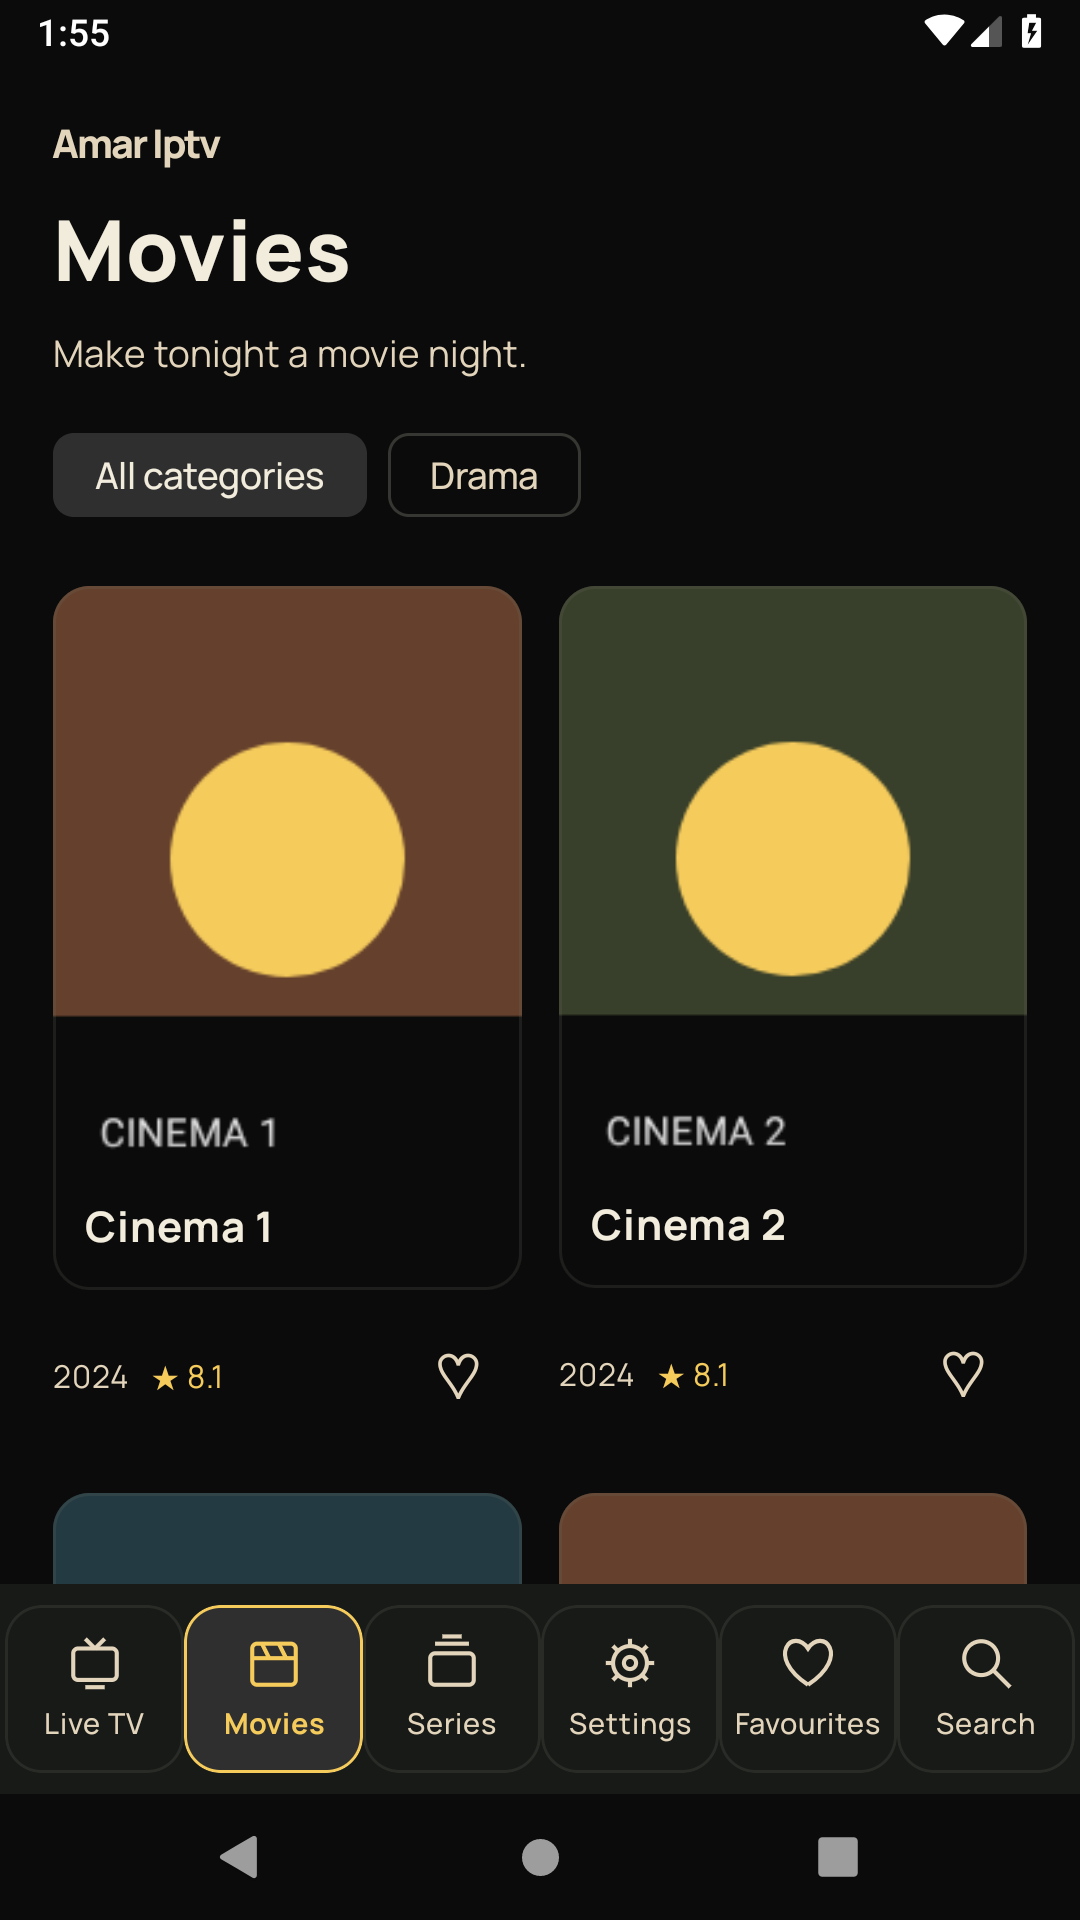
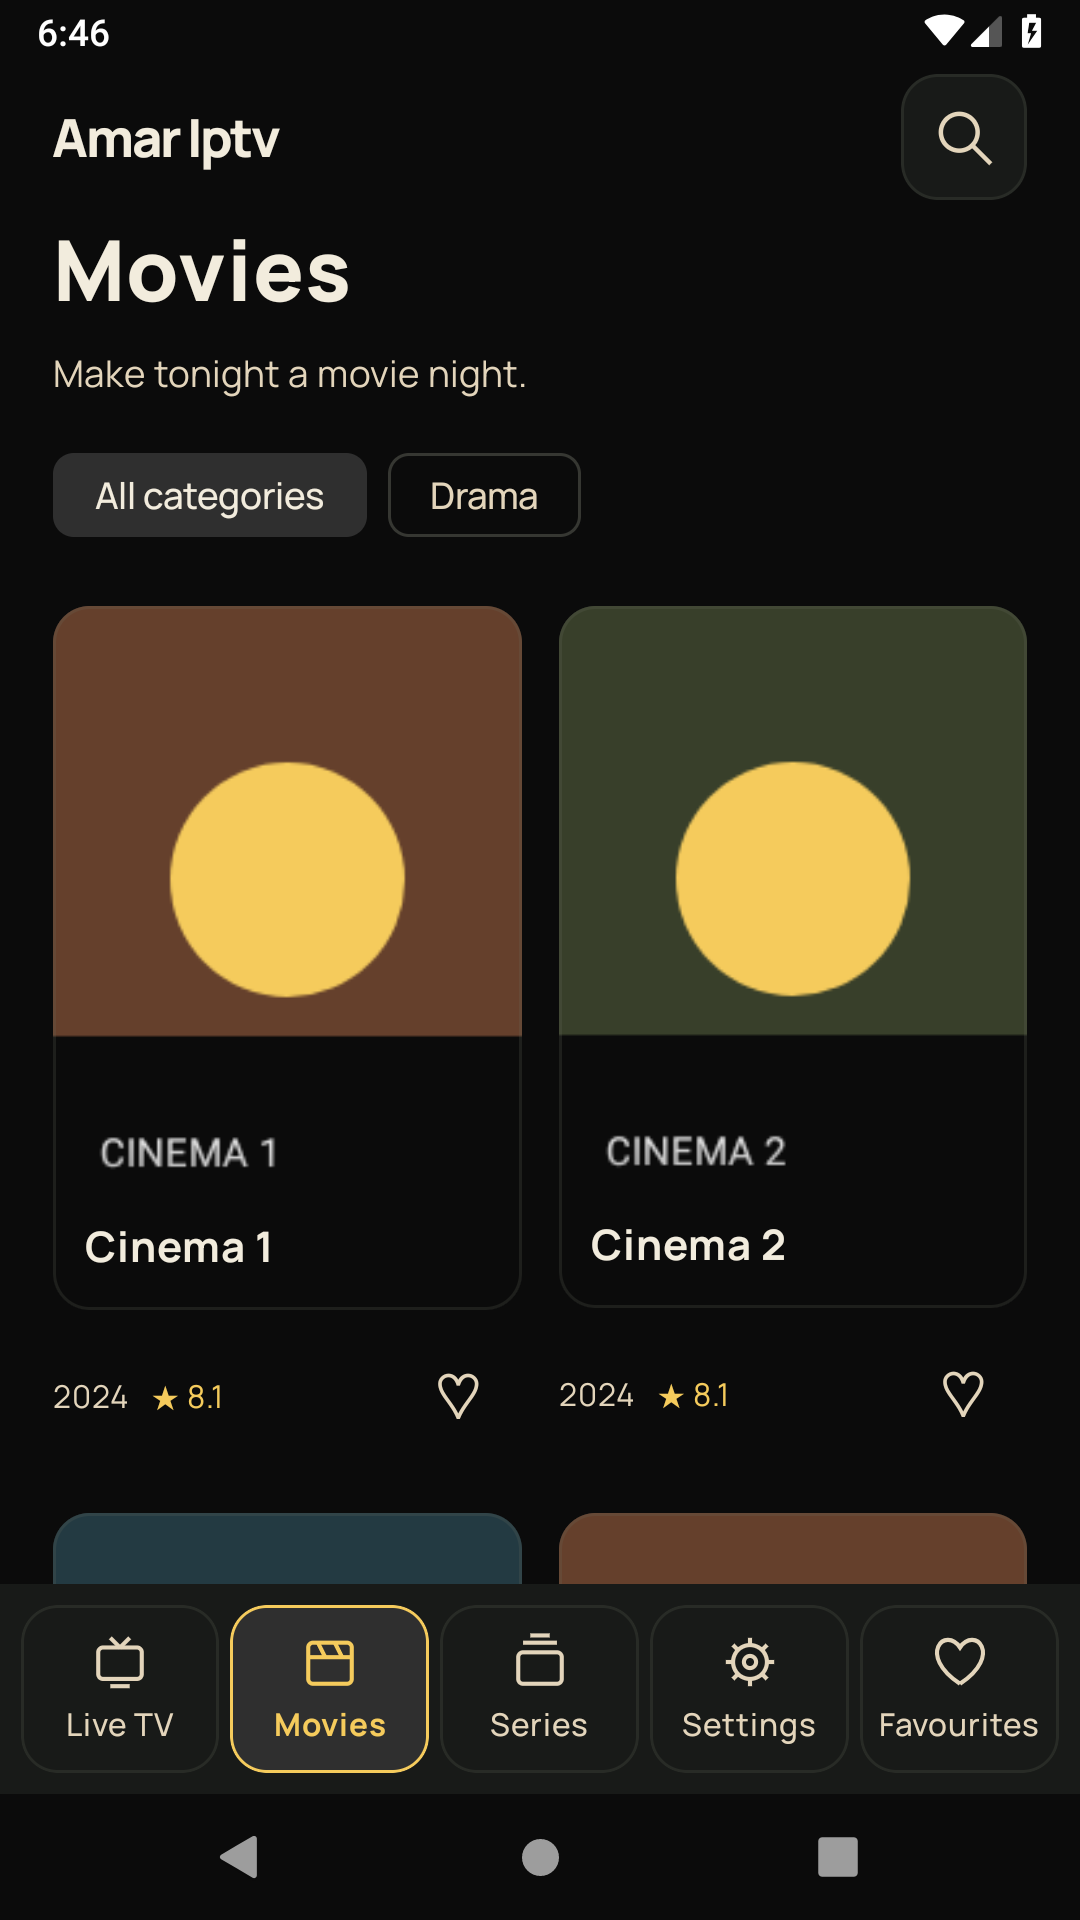
fix: fit empty settings in compact windows

diff --git a/ui/mobile/src/main/kotlin/com/fireamun/iptv/ui/mobile/MobileLibrary.kt b/ui/mobile/src/main/kotlin/com/fireamun/iptv/ui/mobile/MobileLibrary.kt
@@ -46,9 +46,9 @@ fun MobileWelcome(state: LibraryState, onChangeLanguage: () -> Unit, onImportFil
     CinemaTheme {
         val p = cinemaPalette()
         Surface(Modifier.fillMaxSize()) {
-            LazyColumn(modifier = Modifier.imePadding().widthIn(max = 800.dp).testTag("library_list"), state = list, contentPadding = PaddingValues(24.dp), verticalArrangement = Arrangement.spacedBy(12.dp)) {
+            LazyColumn(modifier = Modifier.imePadding().widthIn(max = 800.dp).testTag("library_list"), state = list, contentPadding = PaddingValues(20.dp), verticalArrangement = Arrangement.spacedBy(12.dp)) {
                 item(key = "header") {
-                    Column(verticalArrangement = Arrangement.spacedBy(20.dp)) {
+                    Column(verticalArrangement = Arrangement.spacedBy(16.dp)) {
                         Row(Modifier.fillMaxWidth(), verticalAlignment = Alignment.CenterVertically) {
                             Box(Modifier.weight(1f), contentAlignment = Alignment.CenterStart) { Text(stringResource(R.string.mobile_settings_title), fontWeight = FontWeight.Bold, fontSize = 22.sp) }
                             TextButton(onClick = onChangeAppearance, modifier = Modifier.testTag("appearance_switch")) { Text(stringResource(if (isSystemInDarkTheme()) R.string.mobile_light else R.string.mobile_dark), color = p.text, fontSize = 12.sp) }
@@ -75,8 +75,7 @@ fun MobileWelcome(state: LibraryState, onChangeLanguage: () -> Unit, onImportFil
                             }
                         }
                         if (state.entryCount == 0) {
-                            CinemaIllustration(Modifier.fillMaxWidth().height(160.dp))
-                            Text(stringResource(R.string.mobile_title), fontWeight = FontWeight.ExtraBold, fontSize = 38.sp, lineHeight = 44.sp, letterSpacing = (-1).sp)
+                            Text(stringResource(R.string.mobile_title), fontWeight = FontWeight.ExtraBold, fontSize = 24.sp, lineHeight = 32.sp)
                             Text(stringResource(R.string.mobile_description), style = MaterialTheme.typography.bodyMedium, color = p.muted)
                         } else {
                             if (state.canGoBack) TextButton(onClick = onLibraryBack, modifier = Modifier.testTag("library_back")) { Text(stringResource(R.string.mobile_back), color = p.text) }

diff --git a/app/src/androidTest/kotlin/com/fireamun/iptv/prototype/AppearanceTest.kt b/app/src/androidTest/kotlin/com/fireamun/iptv/prototype/AppearanceTest.kt
@@ -95,6 +95,7 @@ class AppearanceTest {
             current == expected
         }
         compose.waitForIdle()
+        compose.waitUntil(10_000) { compose.onAllNodesWithTag("nav_settings").fetchSemanticsNodes().isNotEmpty() }
     }
     private fun assertSaved(dark: Boolean) {
         assertEquals(dark, Appearance.isDark(instrumentation.targetContext))

diff --git a/progress.md b/progress.md
@@ -319,3 +319,5 @@ After both device migration/storage checks passed, the owner emulator was update
 Owner Favourites and Search also opened without import controls/errors; the second distinct cold process reached cached rows in about 9.4 seconds (PID 7376). The phone is left running on Live TV. Revised local app/test-APK/lint, independent review, 45-document link validation and whitespace checks passed before the next push. Require fresh complete cloud results for this revision; do not merge from the earlier 43/44 results.
 
 Latest user refinement: move Search to the top because six bottom controls looked crowded. Implemented a fixed brand/Search header and five more widely spaced bottom tabs, larger labels, compact Search rows retaining movie/series detail activation, and Back to the originating destination. Device Settings headers now identify Settings without duplicating the global brand. The geometry assertion requires Search above the bottom bar; a JVM regression verifies Search Back (red: missing closeSearch API, then green). Full local build/lint/64 JVM cases passed (`.tools/top-search-local.log`); final geometry test-APK/lint passed (`.tools/top-search-geometry-local.log`). Independent read-only review found no blockers. Owner emulator was updated with install-r again, source preserved, cached readiness 9.2 seconds (PID 7731); fixed app resource-ID bounds confirmed top Search and exactly five bottom targets. The archived screenshot gallery predates this refinement; require the new run's actual screenshots, complete XML and cold probes for delivery. No extra IME padding was added: safeDrawingPadding already handles it, and owner safe-query geometry showed no header shift with keyboard visible/hidden.
+
+At `b181ef03360d96619e4ad6d40fb4030a29c6621c`, [run 40560797868](https://github.com/FireAmun/Iptv/actions/runs/40560797868) phone XML confirmed 44/44 passes, zero failures/errors/skips; separate cold-process probes passed PID 4941 → 4982, cleanup PID 5020. TV reached all 44 cases with seven MobileActivity setup/touch failures: its short wide viewport put the empty-Settings illustration and setup buttons below the pinned footer. The screenshots establish the overflow; native TV browsing, Search geometry, cache/migration and the 100k case passed. Removed the 160dp illustration from mobile Settings, reduced empty-title size/spacing/padding, retained every input/control and localized title, and made the appearance helper wait for the actual navigation shell instead of UI mode alone. No timeout inflation, fixture reduction or assertion removal. Independent read-only review and revised app/test-APK/lint passed (`.tools/settings-compact-local.log`). The six published synthetic previews now show the top-Search/five-tab layout from b181, before the compact empty-Settings correction. A complete fresh latest-head run, TV XML/probes and exact-head merge remain outstanding; use the live PR to avoid repeating completed owner checks.

diff --git a/docs/design/library/README.md b/docs/design/library/README.md
@@ -1,6 +1,6 @@
 # Library browser palette/layout snapshots
 
-Actual v0.8.0 Compose screens captured on disposable cloud devices, 27 October 2026, at head `e4a739d`, before the owner's later navigation refinement. The current app has five bottom tabs and a top-header Search action with compact results; these archived images show the earlier six-button bar and illustrate only the palette, posters and RTL. Current previews are retained in the latest device artifacts linked from [PR #12](https://github.com/FireAmun/Iptv/pull/12).
+Actual v0.8.0 Compose screens captured on disposable cloud devices, 27 October 2026, at head `b181ef0`. They show the owner's refined five-tab bottom bar, top-header Search action and compact results. They predate the subsequent compact empty-Settings adjustment; latest complete device artifacts and checks are linked from [PR #12](https://github.com/FireAmun/Iptv/pull/12).
 
 All content is synthetic: generated poster shapes, catalogue labels and ratings are test inputs. The production app supplies no demo channels or ratings. No owner/provider screenshots are included.
 
